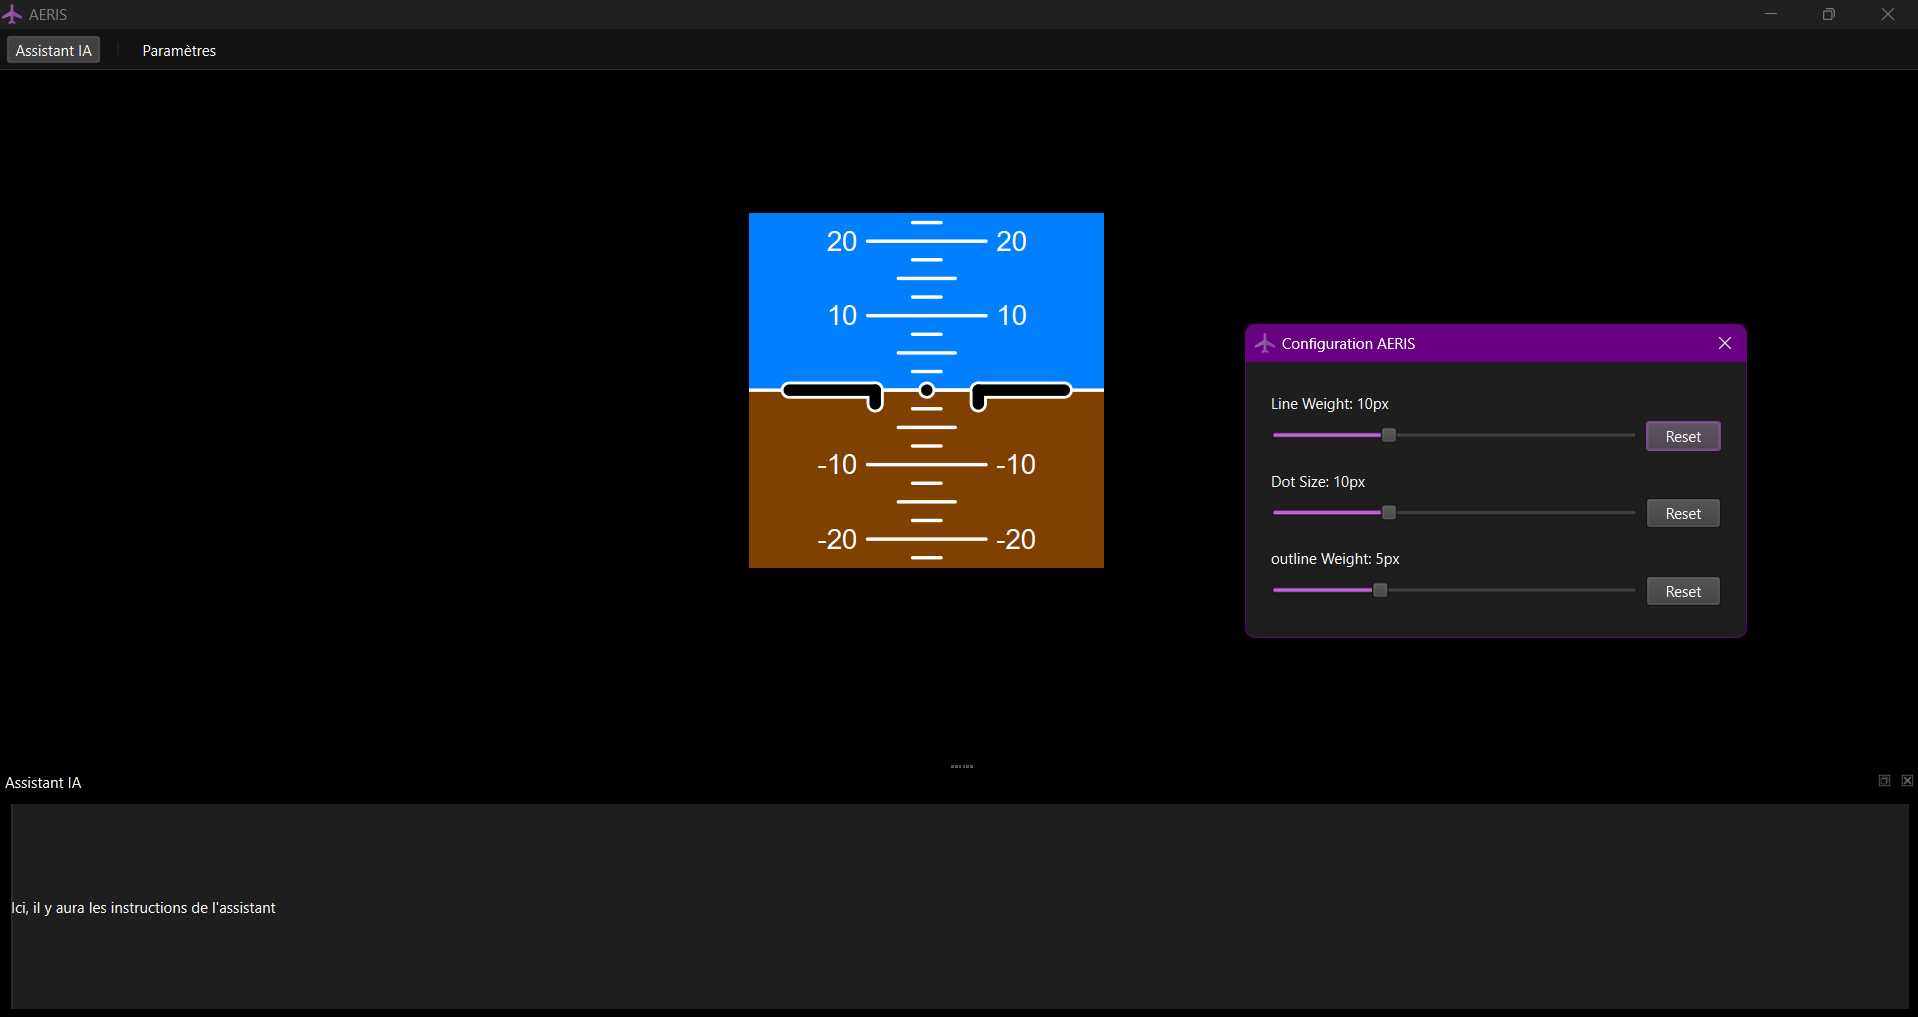
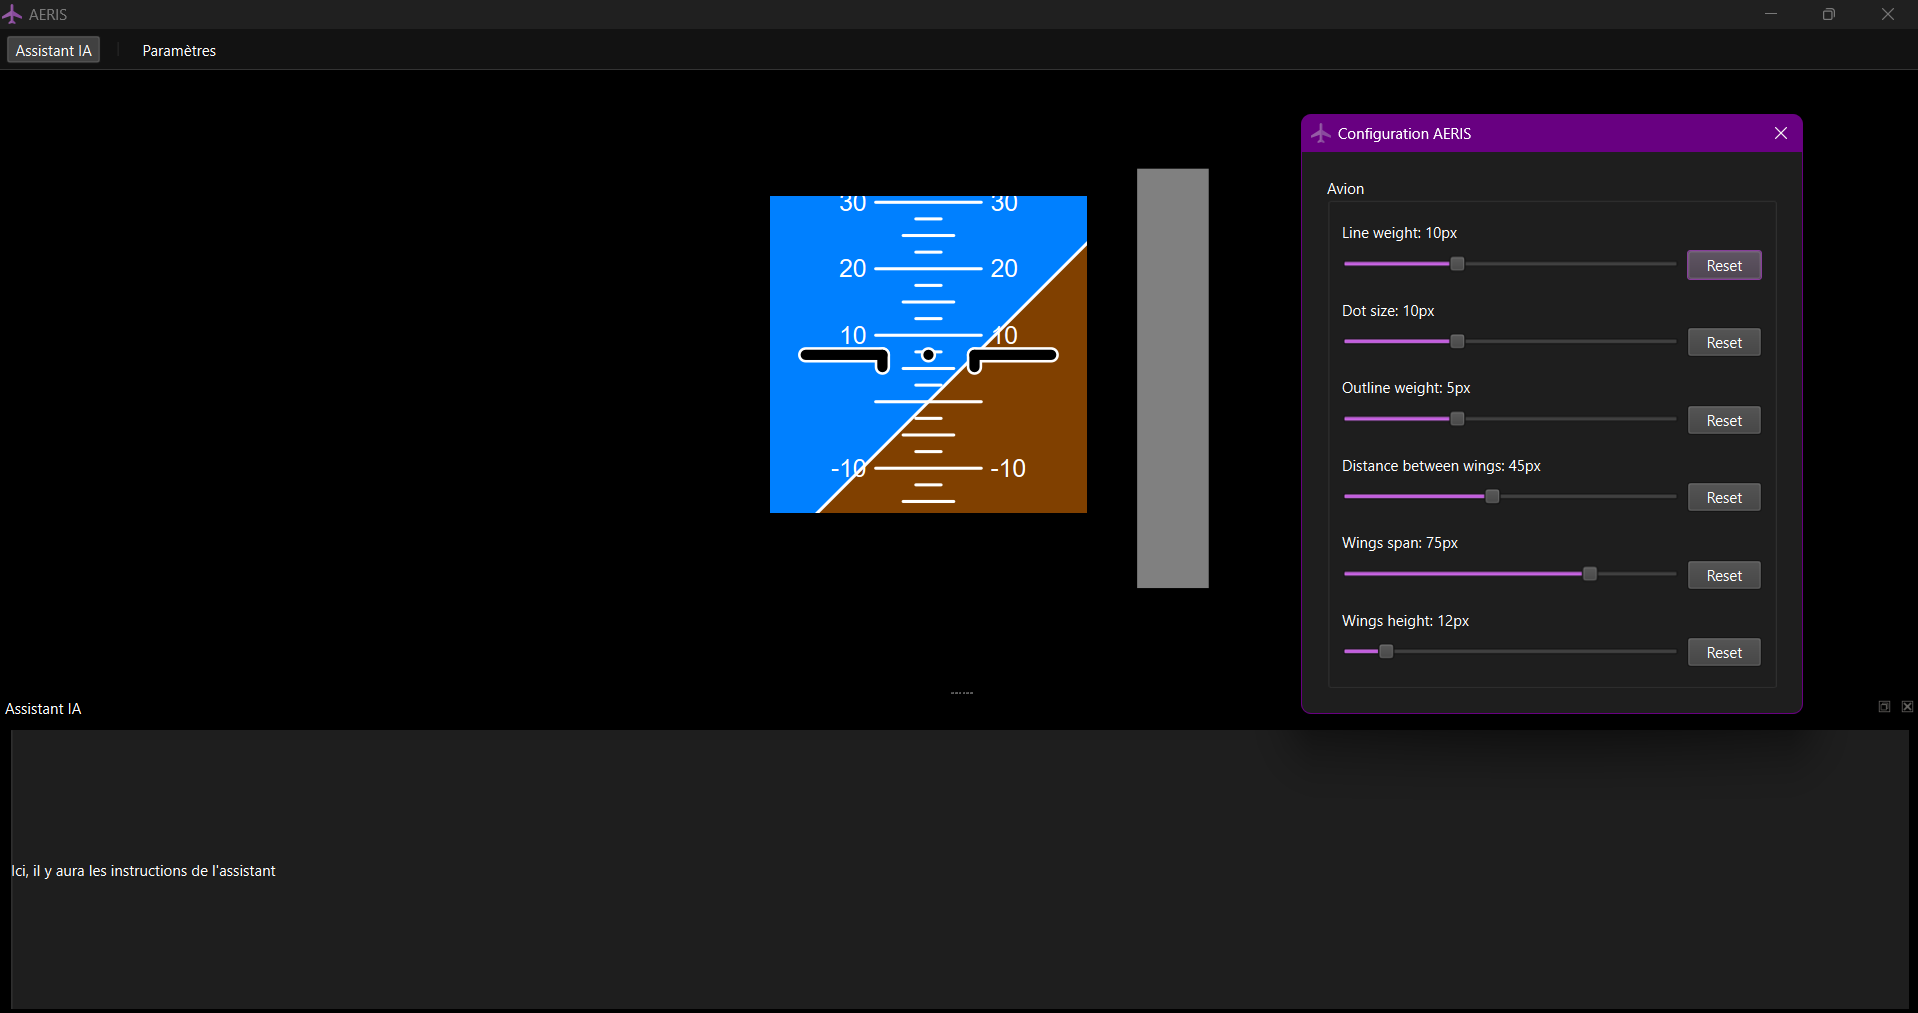
Ajout de l'altimetre et modification du clipping masque de l'horizon artificiel

Changed region(s): [[0.0, 0.0918, 1.0, 0.7957], [0.0, 0.9793, 1.0, 1.0], [0.0, 0.8569, 0.1538, 0.9181]]

diff --git a/software/ui/artificialHorizon/instrument.py b/software/ui/artificialHorizon/instrument.py
@@ -1,10 +1,11 @@
 from PyQt6.QtWidgets import (
     QGraphicsItemGroup,
     QGraphicsEllipseItem,
-    QGraphicsLineItem
+    QGraphicsLineItem,
+    QGraphicsItem
 )
-from PyQt6.QtGui import QPen, QColor, QBrush
-from PyQt6.QtCore import Qt, QSettings
+from PyQt6.QtGui import QPen, QColor, QBrush, QPainterPath
+from PyQt6.QtCore import Qt, QSettings, QRectF
 
 from ui.artificialHorizon.background import ArtificialHorizonBackground
 
@@ -13,12 +14,15 @@ class ArtificialHorizonInstrument(QGraphicsItemGroup):
         super().__init__()
 
         settings = QSettings("ENSC", "AERIS")
+        self.size = 310
         self.currentLineWeight = settings.value("lineWeight", 10, int)
         self.currentDotRadius = settings.value("dotSize", 10, int)
         self.currentOutlineWeight = settings.value("outlineWeight", 5, int)
         self.currentWingsDistance = settings.value("WingsDistance", 45, int)
         self.currentWingsSpan = settings.value("WingsSpan", 75, int)
         self.currentWingsHeight = settings.value("WingsHeight", 12, int)
+
+        self.setFlag(QGraphicsItem.GraphicsItemFlag.ItemClipsChildrenToShape, True)
 
         self.artificialHorizon = ArtificialHorizonBackground()
         self.addToGroup(self.artificialHorizon)
@@ -36,6 +40,14 @@ class ArtificialHorizonInstrument(QGraphicsItemGroup):
         center = self.boundingRect().center()
         self.setTransformOriginPoint(center)
         self.setPos(-center)
+
+    def boundingRect(self):
+        return QRectF(-self.size / 2, -self.size / 2, self.size, self.size)
+
+    def shape(self):
+        path = QPainterPath()
+        path.addRect(self.boundingRect())
+        return path
 
     def drawIndicatorGeneric(self, color, isOutline=False):
         if isOutline:

diff --git a/software/ui/pfd.py b/software/ui/pfd.py
@@ -26,17 +26,22 @@ class PrimaryFlightDisplay(QWidget):
         self.view.setCacheMode(QGraphicsView.CacheModeFlag.CacheBackground)
         self.view.setOptimizationFlag(QGraphicsView.OptimizationFlag.DontSavePainterState)
 
-        self.setupMockPFD(size) #Provisoire
+        #self.setupMockPFD(size) #Provisoire
         self.setupInstruments()
         self.updateFromData()
 
     def setupInstruments(self):
         from ui.artificialHorizon.instrument import ArtificialHorizonInstrument
+        from ui.altimeter.instrument import AltimeterInstrument
         
         self.artificialHorizon = ArtificialHorizonInstrument()
+        self.altimeter = AltimeterInstrument()
+        
         self.scene.addItem(self.artificialHorizon)
+        self.scene.addItem(self.altimeter)
         
         self.artificialHorizon.setPos(271, 277)
+        self.altimeter.setPos(510, 300)
 
     def showEvent(self, event):
         super().showEvent(event)
@@ -59,7 +64,7 @@ class PrimaryFlightDisplay(QWidget):
             self.view.fitInView(self.scene.sceneRect(), Qt.AspectRatioMode.KeepAspectRatio)
 
     def updateFromData(self):
-        self.artificialHorizon.updatePositions(0, 0)
+        self.artificialHorizon.updatePositions(10, 45)
 
     def setupMockPFD(self, size): #Provisoire
         pixmap = QPixmap("assets/maquette.png")

diff --git a/software/ui/artificialHorizon/background.py b/software/ui/artificialHorizon/background.py
@@ -1,16 +1,14 @@
 from PyQt6.QtWidgets import QGraphicsItem, QGraphicsItemGroup, QGraphicsRectItem, QGraphicsLineItem
-from PyQt6.QtGui import QPen, QBrush, QColor, QPainterPath
-from PyQt6.QtCore import Qt, QRectF
+from PyQt6.QtGui import QPen, QBrush, QColor
+from PyQt6.QtCore import Qt
 import math
 
 from ui.artificialHorizon.graduations import PitchGraduations
 
-class ArtificialHorizonBackground(QGraphicsItem):
+class ArtificialHorizonBackground(QGraphicsItemGroup):
     def __init__(self):
         super().__init__()
         self.size = 310
-
-        self.setFlag(QGraphicsItem.GraphicsItemFlag.ItemClipsChildrenToShape, True)
 
         self.pitchItems = QGraphicsItemGroup(self)
         self.rollItems = QGraphicsItemGroup(self.pitchItems)
@@ -30,17 +28,6 @@ class ArtificialHorizonBackground(QGraphicsItem):
         self.horizon.setPen(penHorizon)
 
         self.graduations = PitchGraduations(parent=self,width_reference=width)
-
-    def boundingRect(self):
-        return QRectF(-self.size / 2, -self.size / 2, self.size, self.size)
-
-    def shape(self):
-        path = QPainterPath()
-        path.addRect(self.boundingRect())
-        return path
-
-    def paint(self, painter, option, widget):
-        pass
 
     def updatePositions(self, pitch, roll):
         pixelsPerDegree=6.5

diff --git a/software/ui/altimeter/instrument.py b/software/ui/altimeter/instrument.py
@@ -1,0 +1,20 @@
+from PyQt6.QtWidgets import QGraphicsItemGroup, QGraphicsRectItem, QGraphicsItem, QGraphicsLineItem
+from PyQt6.QtGui import QBrush, QColor, QPen, QPainterPath
+from PyQt6.QtCore import Qt, QRectF
+
+RECT_W, RECT_H = 70, 410
+
+class AltimeterInstrument(QGraphicsItemGroup):
+    def __init__(self):
+        super().__init__()
+
+        self.rect = QGraphicsRectItem(
+            -RECT_W / 2, -RECT_H / 2,
+            RECT_W, RECT_H
+        )
+        
+        self.rect.setBrush(QBrush(QColor("#808080")))
+        self.rect.setPen(QPen(Qt.PenStyle.NoPen))
+        self.addToGroup(self.rect)
+
+        self.setTransformOriginPoint(0, 0)
